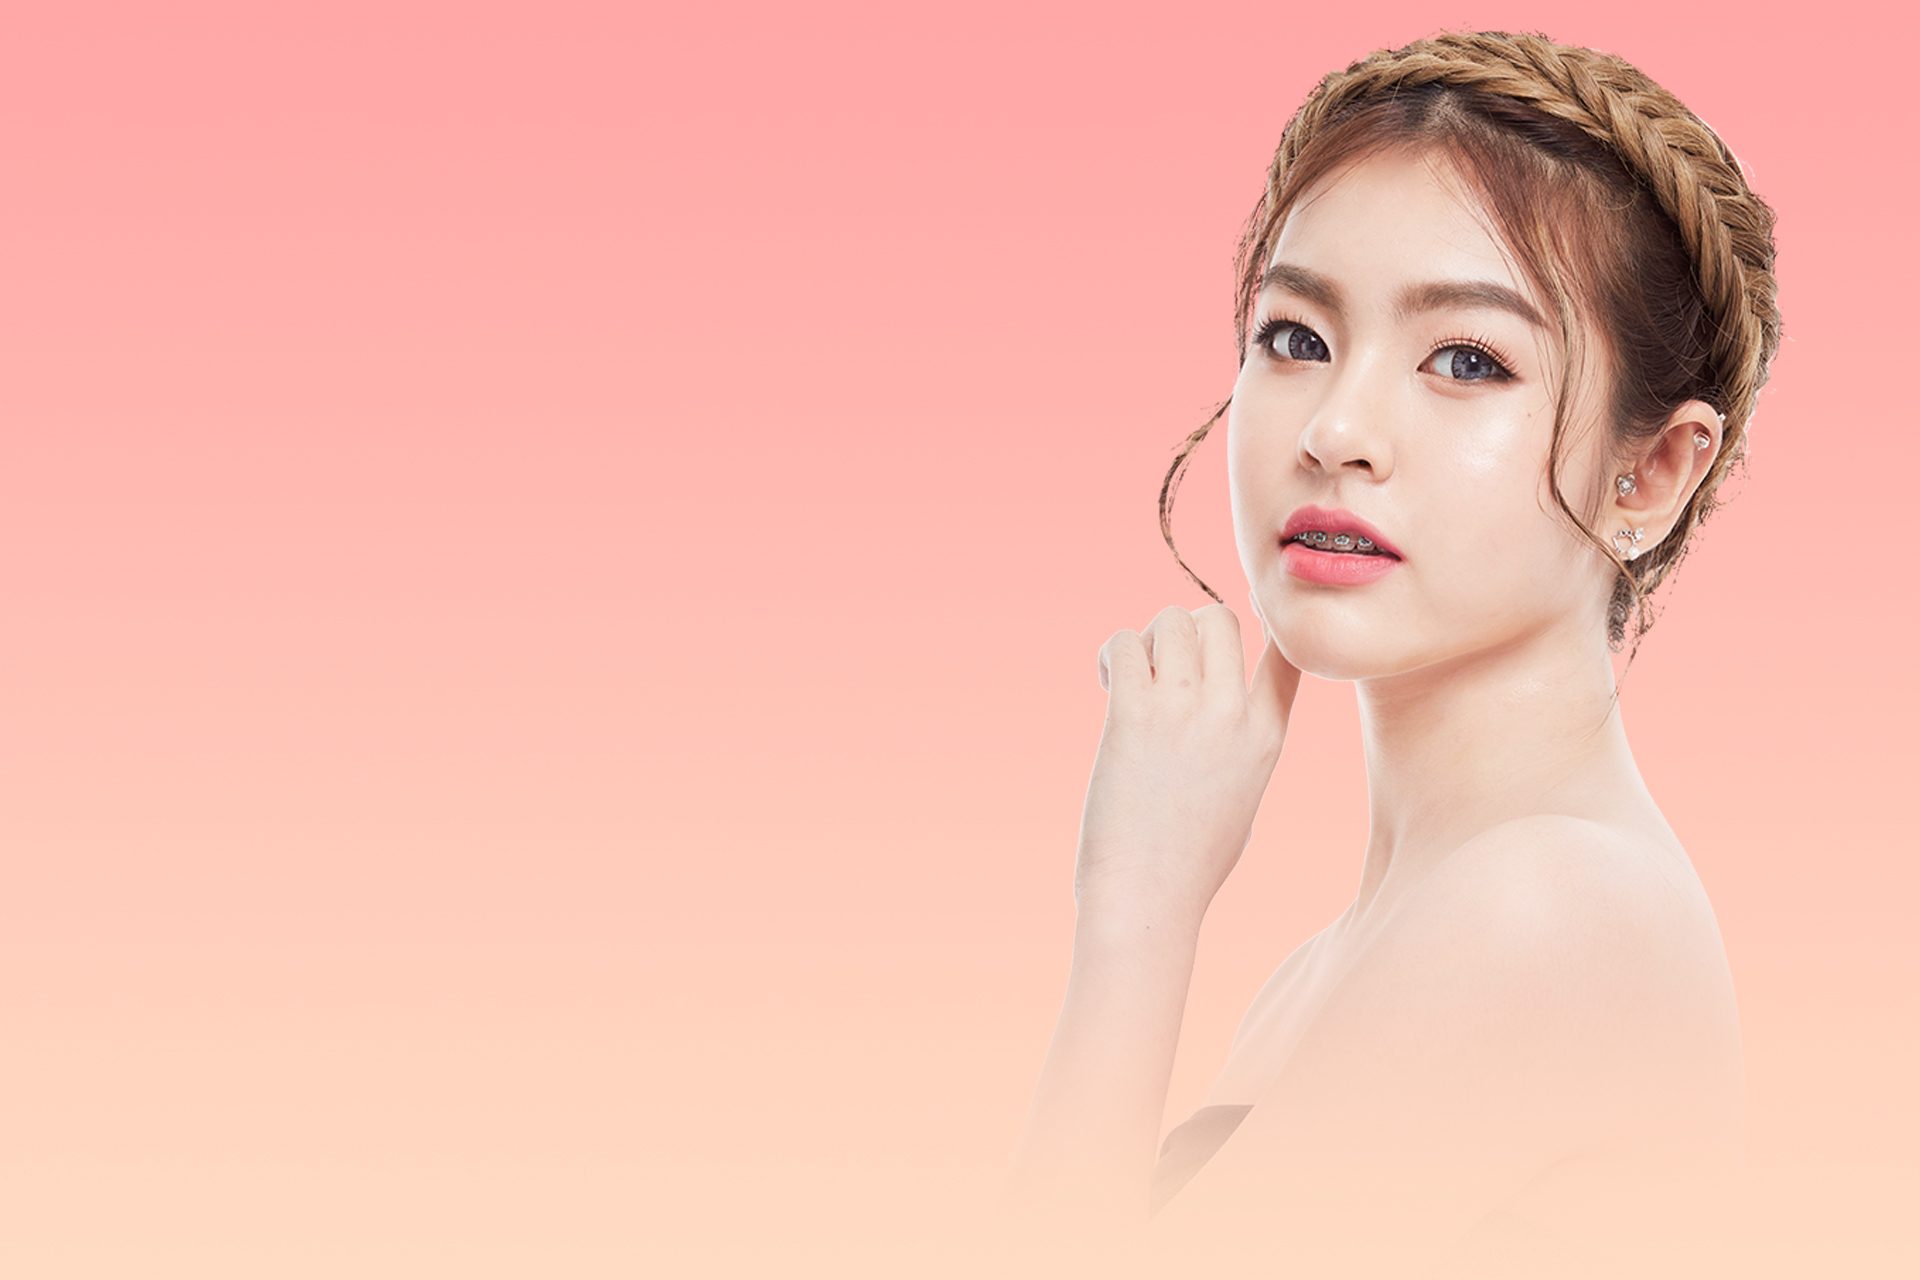
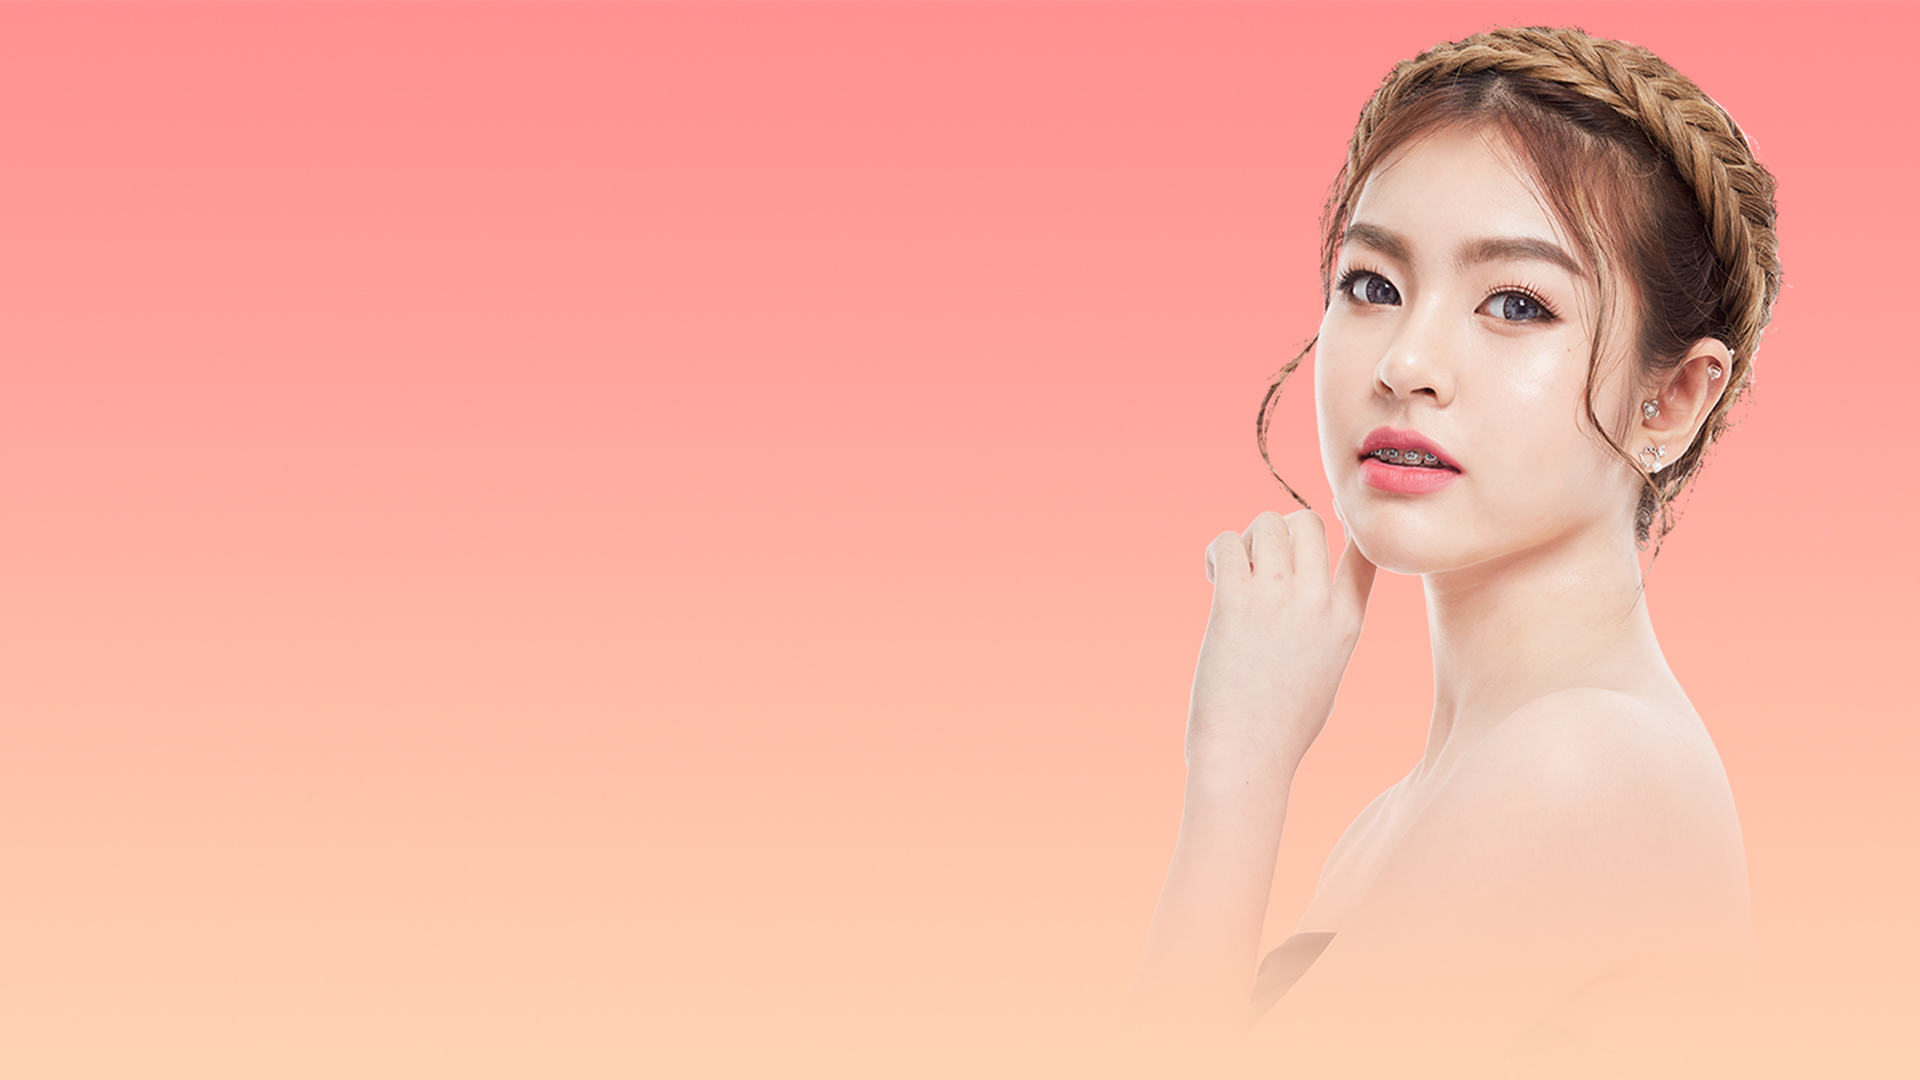
update real selfie section

Changed region(s): [[0.5312, 0.0, 0.9375, 0.825], [0.625, 0.8556, 0.7188, 0.9167], [0.875, 0.6417, 0.9062, 0.7028]]

diff --git a/abc/index.html b/abc/index.html
@@ -131,51 +131,33 @@
 <body class="bg-grey">
     
     <nav class="navbar navbar-expand navbar-dark bg-dark d-block d-sm-block d-md-block d-lg-none">
-        <a class="sidebar-toggle mr-auto" href="#">
-            <i class="fa fa-bars"></i>
-        </a>
-        <a class="navbar-brand align-center" href="#">
-            <img src="assets/img/nav-logo-white-landscape-01.png" style="height: 30px; width: auto;">
-        </a>
-
-        <div class="navbar-collapse collapse">
-            <ul class="navbar-nav ml-auto">
-                <li class="nav-item">
-                    <a href="tel:+6620021919" id="dd_phone" class="d-block d-sm-block d-md-block d-lg-none nav-link">
-                        <i class="fa fa-phone text-light"></i>
-                    </a>
-                </li>
-                <li class="nav-item mr-2">
-                    <a class="nav-link" href="login.html" title="ลงชื่อเข้าใช้งาน">
-                        <i class="fa fa-lock d-block d-sm-block d-md-block d-lg-none text-light"></i>
-                        <span class="d-none d-sm-none d-md-none d-lg-block">ลงชื่อเข้าใช้งาน</span>
-                    </a>
-                </li>
-                <li class="nav-item">
-                    <a class="nav-link" href="register.html" title="สมัครสมาชิก">
-                        <i class="fa fa-user-plus d-block d-sm-block d-md-block d-lg-none text-light"></i>
-                        <span class="d-none d-sm-none d-md-none d-lg-block">สมัครสมาชิก</span>
-                    </a>
-                </li>
-                <!--<li class="nav-item dropdown"> <!-- show when user alr logged in
-                    <a href="#" id="dd_user" class="nav-link dropdown-toggle" data-toggle="dropdown"><i class="fa fa-user"></i></a>
-                    <div class="dropdown-menu dropdown-menu-right" aria-labelledby="dd_user">
-                        <a href="#" class="dropdown-item">Profile</a>
-                        <a href="#" class="dropdown-item">Logout</a>
-                    </div>
-                </li>-->
-            </ul>
+        <div class="row">
+            <div class="col-2 pt-3">
+                <a class="sidebar-toggle" href="#">
+                    <i class="fa fa-bars fa-2x"></i>
+                </a>
+            </div>
+            <div class="col-8 text-center">
+                <a class="navbar-brand" href="#">
+                    <img src="assets/img/nav-logo-white-landscape-01.png" style="height: 45px; width: auto;">
+                </a>
+            </div>
+            <div class="col-2 pt-3">
+                <a href="tel:+6620021919" id="dd_phone" class="">
+                    <i class="fa fa-phone text-light fa-2x"></i>
+                </a>
+            </div>
         </div>
     </nav>
 
     <div class="d-flex">
-        <div class="sidebar sidebar-dark bg-dark">
+        <div class="sidebar sidebar-dark bg-white border-right">
             <ul class="list-unstyled">
-                <li class="text-center">
+                <li class="text-center d-none d-sm-none d-md-block d-lg-block">
                     <a href="index.html">
-                        <img class="img-fluid mt-5" src="assets/img/nav-logo-white.png">
+                        <img class="img-fluid mt-5" src="assets/img/nav-logo-black.png">
                     </a>
-                    <i class="fa fa-minus"></i>
+                    <i class="fa fa-minus text-primary"></i>
                 </li>
                 <li>
                     <a href="#sm_expand_1" data-toggle="collapse">
@@ -227,7 +209,8 @@
                     </div>
                 </div>
                 <div class="carousel-item">
-                    <img class="img-fluid" src="assets/img/home/slide-2.png">
+                    <img class="d-none d-lg-block img-fluid" src="assets/img/home/slide-2-pc.jpg">
+                    <img class="d-block d-lg-none img-fluid" src="assets/img/home/slide-2.png">
                     <div class="carousel-caption d-block d-md-none slide-caption text-white">
                         <h4>Heading</h4>
                         <p>description...</p>
@@ -254,8 +237,88 @@
     </div>
     </div>
         
+    <section class="bg-white pl-0 pr-0 pt-5 pb-0 section fp-auto-height">
+        <div class="container-fluid">
+            <div class="row">
+                <div class="col-12 text-center">
+                    <h1 class="text-center text-dark mt-3">Real Selfie</h1>
+                    <i class="fa fa-minus text-primary mb-5"></i>
+                </div>
+                <div class="row no-gutters mb-5">
+                    <div class="col-4 col-sm-2 overflow-hidden">
+                        <a href="#" class="">
+                            <img class="img-fluid hvr-grow" src="assets/img/selfie/1.jpg">
+                        </a>
+                    </div>
+                    <div class="col-4 col-sm-2 overflow-hidden">
+                        <a href="#">
+                            <img class="img-fluid hvr-grow" src="assets/img/selfie/2.jpg">
+                        </a>
+                    </div>
+                    <div class="col-4 col-sm-2 overflow-hidden">
+                        <a href="#">
+                            <img class="img-fluid hvr-grow" src="assets/img/selfie/3.jpg">
+                        </a>
+                    </div>
+                    <div class="col-4 col-sm-2 overflow-hidden">
+                        <a href="#">
+                            <img class="img-fluid hvr-grow" src="assets/img/selfie/4.jpg">
+                        </a>
+                    </div>
+                    <div class="col-4 col-sm-2 overflow-hidden">
+                        <a href="#">
+                            <img class="img-fluid hvr-grow" src="assets/img/selfie/5.jpg">
+                        </a>
+                    </div>
+                    <div class="col-4 col-sm-2 overflow-hidden">
+                        <a href="#">
+                            <img class="img-fluid hvr-grow" src="assets/img/selfie/6.jpg">
+                        </a>
+                    </div>
+                    
+                    <div class="col-4 col-sm-2 overflow-hidden">
+                        <a href="#" class="">
+                            <img class="img-fluid hvr-grow" src="assets/img/selfie/7.jpg">
+                        </a>
+                    </div>
+                    <div class="col-4 col-sm-2 overflow-hidden">
+                        <a href="#">
+                            <img class="img-fluid hvr-grow" src="assets/img/selfie/8.jpg">
+                        </a>
+                    </div>
+                    <div class="col-4 col-sm-2 overflow-hidden">
+                        <a href="#">
+                            <img class="img-fluid hvr-grow" src="assets/img/selfie/9.jpg">
+                        </a>
+                    </div>
+                    <div class="col-4 col-sm-2 overflow-hidden">
+                        <a href="#">
+                            <img class="img-fluid hvr-grow" src="assets/img/selfie/10.jpg">
+                        </a>
+                    </div>
+                    <div class="col-4 col-sm-2 overflow-hidden">
+                        <a href="#">
+                            <img class="img-fluid hvr-grow" src="assets/img/selfie/11.jpg">
+                        </a>
+                    </div>
+                    <div class="col-4 col-sm-2 overflow-hidden">
+                        <a href="#">
+                            <img class="img-fluid hvr-grow" src="assets/img/selfie/12.jpg">
+                        </a>
+                    </div>
+                </div>
+            </div>
+        </div>
+    </section>
+        
     <section class="section bg-before-after fp-height-auto-responsive">
         <div class="container-fluid">
+            <div class="row">
+                <div class="col-12 col-lg-6 text-center">
+                    <h1 class="text-center text-dark mt-3">Before &amp; After</h1>
+                    <i class="fa fa-minus text-primary mb-5"></i>
+                </div>
+            </div>
             <div class="row">
                 <div class="col-12 col-lg-6 text-center">
                     <div class="col-12">
@@ -269,50 +332,6 @@
                 </div>
             </div>
         </div>    
-    </section>
-            
-    <section class="bg-purple pl-3 pr-3 pt-5 pb-5 section">
-        <div class="container">
-            <div class="row">
-                <div class="col-12">
-                    <h1 class="text-center text-white mt-3">Before &amp; After</h1>
-                    <p class="text-center text-white">Description.....</p>
-                    <div class="underline-icon bg-white"></div>
-                </div>
-                <div class="row no-gutters md-5">
-                    <div class="col-4 col-sm-4 overflow-hidden">
-                        <a href="#" class="">
-                            <img class="img-fluid hvr-grow" src="assets/img/home/bounmy.jpg">
-                        </a>
-                    </div>
-                    <div class="col-4 col-sm-4 overflow-hidden">
-                        <a href="#">
-                            <img class="img-fluid hvr-grow" src="assets/img/home/Butt.jpg">
-                        </a>
-                    </div>
-                    <div class="col-4 col-sm-4 overflow-hidden">
-                        <a href="#">
-                            <img class="img-fluid hvr-grow" src="assets/img/home/mew.jpg">
-                        </a>
-                    </div>
-                    <div class="col-4 col-sm-4 overflow-hidden">
-                        <a href="#">
-                            <img class="img-fluid hvr-grow" src="assets/img/home/rotsukon.jpg">
-                        </a>
-                    </div>
-                    <div class="col-4 col-sm-4 overflow-hidden">
-                        <a href="#">
-                            <img class="img-fluid hvr-grow" src="assets/img/home/suluk.jpg">
-                        </a>
-                    </div>
-                    <div class="col-4 col-sm-4 overflow-hidden">
-                        <a href="#">
-                            <img class="img-fluid hvr-grow" src="assets/img/home/aschawin.jpg">
-                        </a>
-                    </div>
-                </div>
-            </div>
-        </div>
     </section>
         
     <section id="sect2" class="pd-5 section fp-auto-height">
@@ -443,7 +462,7 @@
     </section>
     
     <!-- footer section -->
-    <section class="mt-5 section fp-auto-height">
+    <section class="section fp-auto-height">
         <div class="bg-white">
             <div class="container">
                 <div class="row">

diff --git a/abc/assets/css/bootadmin.min.css b/abc/assets/css/bootadmin.min.css
@@ -1,1 +1,1 @@
-html,body{height:100%}html{font-size:14px}body{overflow-x:hidden}.navbar-dark .navbar-nav .nav-link,.navbar-dark .navbar-text{color:rgba(255,255,255,.75)}.navbar-dark .navbar-nav .nav-link:focus,.navbar-dark .navbar-nav .nav-link:hover{color:rgba(255,255,255,1)}.navbar-dark .sidebar-toggle{color:rgba(255,255,255,1)}.navbar-light .navbar-nav .nav-link,.navbar-light .navbar-text{color:rgba(0,0,0,.75)}.navbar-light .navbar-nav .nav-link:focus,.navbar-light .navbar-nav .nav-link:hover{color:rgba(0,0,0,1)}.navbar-light .sidebar-toggle{color:rgba(0,0,0,1)}.sidebar{min-width:230px;max-width:230px;min-height:calc(100vh - 49px);transition:all 0.3s}.sidebar ul li a{display:block;padding:.75rem 1rem;text-decoration:none}.sidebar ul ul a{padding-left:2.5rem}.sidebar [data-toggle="collapse"]{position:relative}.sidebar [data-toggle="collapse"]:before{content:"\f0d7";font-family:"Font Awesome 5 Free";font-weight:900;position:absolute;right:1rem}.sidebar [aria-expanded="true"]:before{content:"\f0d8"}.sidebar.toggled{margin-left:-230px}.sidebar-dark ul li a{color:rgba(255,255,255,.75)}.sidebar-dark ul ul a{background:rgba(0,0,0,.15)}.sidebar-dark ul li a:hover,.sidebar-dark ul .active a{color:rgba(255,255,255,1);background:rgba(0,0,0,.15)}.sidebar-dark [aria-expanded="true"]{background:rgba(0,0,0,.15)}.sidebar-light ul li a{color:rgba(0,0,0,.75)}.sidebar-light ul ul a{background:rgba(0,0,0,.05)}.sidebar-light ul li a:hover,.sidebar-light ul .active a{color:rgba(0,0,0,1);background:rgba(0,0,0,.05)}.sidebar-light [aria-expanded="true"]{background:rgba(0,0,0,.05)}.btn-square{border-radius:0}.btn-pill{border-radius:1.5rem}.btn-icon{padding:.375rem .5rem}.btn-icon.btn-sm{padding:.25rem .375rem}.btn-icon.btn-lg{padding:.5rem .675rem}.accordion .card-header{padding:0}.accordion .card-header a{padding:.75rem 1.25rem;display:block;color:inherit;text-decoration:none}.accordion .card-header .collapse-icon:before{content:"\f068";font-family:"Font Awesome 5 Free";font-weight:900}.accordion .card-header .collapsed .collapse-icon:before{content:"\f067"}.content{width:100%}.dataTables_wrapper{padding:0}.dataTables_wrapper table{overflow:hidden}.dataTables_wrapper th,.dataTables_wrapper td{vertical-align:middle}.dataTables_wrapper th{white-space:nowrap}.dataTables_wrapper .actions{white-space:nowrap;text-align:right}@media (max-width:768px){.sidebar{margin-left:-230px}.sidebar.toggled{margin-left:0}}
+html,body{height:100%}html{font-size:14px}body{overflow-x:hidden}.navbar-dark .navbar-nav .nav-link,.navbar-dark .navbar-text{color:rgba(255,255,255,.75)}.navbar-dark .navbar-nav .nav-link:focus,.navbar-dark .navbar-nav .nav-link:hover{color:rgba(255,255,255,1)}.navbar-dark .sidebar-toggle{color:rgba(0,0,0,1)}.navbar-light .navbar-nav .nav-link,.navbar-light .navbar-text{color:rgba(0,0,0,.75)}.navbar-light .navbar-nav .nav-link:focus,.navbar-light .navbar-nav .nav-link:hover{color:rgba(0,0,0,1)}.navbar-light .sidebar-toggle{color:rgba(0,0,0,1)}.sidebar{min-width:230px;max-width:230px;min-height:calc(100vh - 49px);transition:all 0.3s}.sidebar ul li a{display:block;padding:.75rem 1rem;text-decoration:none}.sidebar ul ul a{padding-left:2.5rem}.sidebar [data-toggle="collapse"]{position:relative}.sidebar [data-toggle="collapse"]:before{content:"\f0d7";font-family:"Font Awesome 5 Free";font-weight:900;position:absolute;right:1rem}.sidebar [aria-expanded="true"]:before{content:"\f0d8"}.sidebar.toggled{margin-left:-230px}.sidebar-dark ul li a{color:rgba(0,0,0,.75)}.sidebar-dark ul ul a{background:rgba(0,0,0,.15)}.sidebar-dark ul li a:hover,.sidebar-dark ul .active a{color:rgba(255,255,255,1);background:rgba(0,0,0,.15)}.sidebar-dark [aria-expanded="true"]{background:rgba(0,0,0,.15)}.sidebar-light ul li a{color:rgba(0,0,0,.75)}.sidebar-light ul ul a{background:rgba(0,0,0,.05)}.sidebar-light ul li a:hover,.sidebar-light ul .active a{color:rgba(0,0,0,1);background:rgba(0,0,0,.05)}.sidebar-light [aria-expanded="true"]{background:rgba(0,0,0,.05)}.btn-square{border-radius:0}.btn-pill{border-radius:1.5rem}.btn-icon{padding:.375rem .5rem}.btn-icon.btn-sm{padding:.25rem .375rem}.btn-icon.btn-lg{padding:.5rem .675rem}.accordion .card-header{padding:0}.accordion .card-header a{padding:.75rem 1.25rem;display:block;color:inherit;text-decoration:none}.accordion .card-header .collapse-icon:before{content:"\f068";font-family:"Font Awesome 5 Free";font-weight:900}.accordion .card-header .collapsed .collapse-icon:before{content:"\f067"}.content{width:100%}.dataTables_wrapper{padding:0}.dataTables_wrapper table{overflow:hidden}.dataTables_wrapper th,.dataTables_wrapper td{vertical-align:middle}.dataTables_wrapper th{white-space:nowrap}.dataTables_wrapper .actions{white-space:nowrap;text-align:right}@media (max-width:768px){.sidebar{margin-left:-230px}.sidebar.toggled{margin-left:0}}

diff --git a/abc/map.html b/abc/map.html
@@ -175,6 +175,23 @@
                             });
                         }
                     </script>
+                    <script async defer src="https://maps.googleapis.com/maps/api/js?key=AIzaSyBwhKiNFMoj52G8-gwffzCzCyKJpOOb9gE&callback=initMap"></script><div id="map"></div>
+                    <script>
+                        function initMap() {
+                            var abc = {
+                                lat: 13.736591,
+                                lng: 100.588260
+                            };
+                            var map = new google.maps.Map(document.getElementById('map'), {
+                                zoom: 19,
+                                center: abc
+                            });
+                            var marker = new google.maps.Marker({
+                                position: abc,
+                                map: map
+                            });
+                        }
+                    </script>
                     <script async defer src="https://maps.googleapis.com/maps/api/js?key=AIzaSyBwhKiNFMoj52G8-gwffzCzCyKJpOOb9gE&callback=initMap"></script>
                 </div>
             </div>
